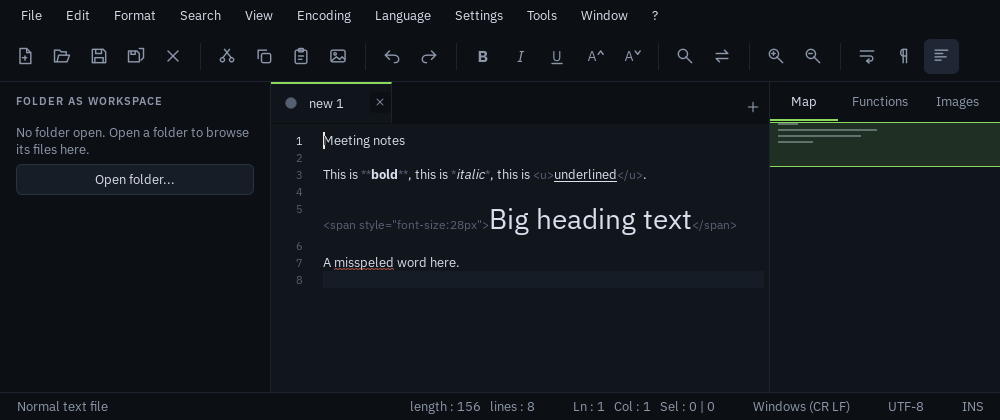
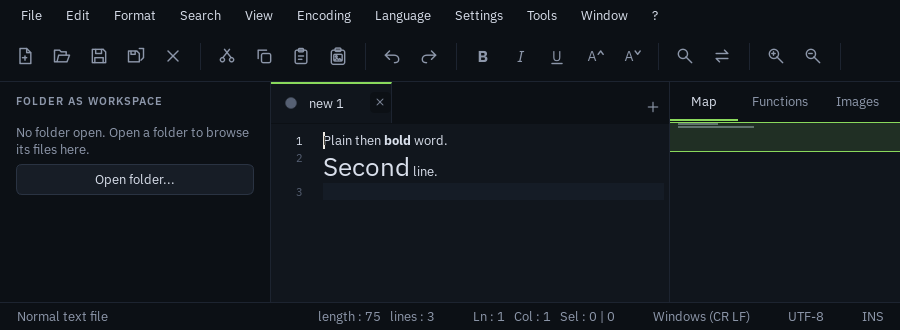
Hide formatting marks: bold/italic/underline/size show as formatting only
The ** * <u> <span> marks stay in the file but are invisible in the editor; the caret skips them and Backspace/Delete step over them. View > Show Formatting Marks reveals them.

diff --git a/lavatinoter/highlighter.py b/lavatinoter/highlighter.py
@@ -181,6 +181,7 @@ def lang_by_name(name):
 
 
 RICH_LANGS = ("Plain text", "Markdown", "HTML / XML")
+SHOW_MARKS = False                          # View > Show Formatting Marks
 _RICH_RULES = [
     (re.compile(r"\*\*(?=\S)(.+?)(?<=\S)\*\*"), "bold"),
     (re.compile(r"<b>(.+?)</b>", re.I), "bold"),
@@ -190,6 +191,26 @@ _RICH_RULES = [
     (re.compile(r"<u>(.+?)</u>", re.I), "underline"),
     (re.compile(r"(<span style=\"font-size:\s*(\d+)px\">)(.+?)(</span>)", re.I), "size"),
 ]
+
+
+def rich_matches(text):
+    """[(kind, match, inner start, inner end)] for every formatting mark pair in a line."""
+    if "*" not in text and "<" not in text and "_" not in text:
+        return []
+    out = []
+    for rx, kind in _RICH_RULES:
+        for m in rx.finditer(text):
+            a, b = m.span(3) if kind == "size" else m.span(1)
+            out.append((kind, m, a, b))
+    return out
+
+
+def mark_spans(text):
+    """[(start, end)] of the formatting mark characters in a line (the opening and closing marks)."""
+    spans = []
+    for kind, m, a, b in rich_matches(text):
+        spans += [(m.start(), a), (b, m.end())]
+    return sorted(spans)
 
 
 class Highlighter(QSyntaxHighlighter):
@@ -229,34 +250,33 @@ class Highlighter(QSyntaxHighlighter):
             self._spell(text)
 
     def _rich(self, text):
-        """Shows **bold**, *italic*, <u>underline</u> and <span style="font-size:20px">size</span> as formatted text
-        (the marks stay in the file, dimmed, so any Markdown viewer renders the same)."""
-        if "*" not in text and "<" not in text and "_" not in text:
-            return
-        dim = QColor(theme.c("FAINT"))
-        for rx, kind in _RICH_RULES:
-            for m in rx.finditer(text):
-                a, b = m.span(1)
-                fmt = self.format(a)
-                if kind == "bold":
-                    fmt.setFontWeight(QFont.Bold)
-                elif kind == "italic":
-                    fmt.setFontItalic(True)
-                elif kind == "underline":
-                    fmt.setFontUnderline(True)
-                elif kind == "size":
-                    px = int(m.group(2))
-                    fmt.setFontPointSize(max(6.0, min(80.0, px * 0.75)))
-                    a, b = m.span(3)
-                self.setFormat(a, b - a, fmt) if kind != "size" else self.setFormat(a, b - a, fmt)
-                for ms, me in ((m.start(), a), (b, m.end())):
-                    mark = self.format(ms)
-                    mark.setForeground(dim)
+        """Shows **bold**, *italic*, <u>underline</u> and <span style="font-size:20px">size</span> as formatted text.
+        The marks stay in the file (so any Markdown viewer renders the same) but are hidden here, unless
+        View > Show Formatting Marks is on."""
+        hide = QColor(0, 0, 0, 0)
+        for kind, m, a, b in rich_matches(text):
+            fmt = self.format(a)
+            if kind == "bold":
+                fmt.setFontWeight(QFont.Bold)
+            elif kind == "italic":
+                fmt.setFontItalic(True)
+            elif kind == "underline":
+                fmt.setFontUnderline(True)
+            elif kind == "size":
+                fmt.setFontPointSize(max(6.0, min(80.0, int(m.group(2)) * 0.75)))
+            self.setFormat(a, b - a, fmt)
+            for ms, me in ((m.start(), a), (b, m.end())):
+                mark = self.format(ms)
+                if SHOW_MARKS:
+                    mark.setForeground(QColor(theme.c("FAINT")))
                     mark.setFontWeight(QFont.Normal)
                     mark.setFontItalic(False)
                     mark.setFontUnderline(False)
-                    mark.setFontPointSize(max(6.0, self.document().defaultFont().pointSizeF() * 0.8))
-                    self.setFormat(ms, me - ms, mark)
+                else:
+                    mark.setForeground(hide)
+                    mark.setFontPointSize(0.1)
+                    mark.setFontUnderline(False)
+                self.setFormat(ms, me - ms, mark)
 
     def _spell(self, text):
         """Red squiggle under misspelled words: everywhere in plain text / Markdown, only in comments and strings in code."""
@@ -264,8 +284,9 @@ class Highlighter(QSyntaxHighlighter):
         if not prose and self.lang.name in ("Log", "JSON"):
             return
         ok_colors = {self.fmts["comment"].foreground().color().name(), self.fmts["string"].foreground().color().name()}
+        hidden = mark_spans(text) if self.lang.name in RICH_LANGS else []
         for m in WORD.finditer(text):
-            if not speller.is_wrong(m.group()):
+            if not speller.is_wrong(m.group()) or any(a <= m.start() < b for a, b in hidden):
                 continue
             fmt = self.format(m.start())
             col = fmt.foreground().color().name() if fmt.foreground().style() else ""

diff --git a/lavatinoter/editor.py b/lavatinoter/editor.py
@@ -11,7 +11,7 @@ from PySide6.QtWidgets import QPlainTextEdit, QTextEdit, QToolTip, QWidget
 
 from . import spell as spellmod
 from . import theme, util
-from .highlighter import PLAIN, Highlighter, lang_for_path
+from .highlighter import PLAIN, RICH_LANGS, Highlighter, lang_for_path, mark_spans
 
 BRACKETS = {"(": ")", "[": "]", "{": "}"}
 CLOSERS = {v: k for k, v in BRACKETS.items()}
@@ -66,6 +66,7 @@ class CodeEditor(QPlainTextEdit):
         self._img_sel = None                # block number of the selected picture
         self._in_zone_fix = False
         self._prev_block = 0
+        self._prev_col = 0
         self.autocorrect_on = False
         self._ac = None                     # the last automatic correction, so Backspace can take it back
         self.gutter = LineNumberArea(self)
@@ -471,6 +472,18 @@ class CodeEditor(QPlainTextEdit):
             return super().keyPressEvent(e)
         if self._img_sel is not None and self._image_key(e):
             return
+        if key in (Qt.Key_Backspace, Qt.Key_Delete) and not mods and not self.textCursor().hasSelection() and self.lang.name in RICH_LANGS:
+            c = self.textCursor()
+            col = c.positionInBlock()
+            for a, b in mark_spans(c.block().text()):          # step over an invisible mark so the visible letter is deleted
+                if key == Qt.Key_Backspace and col == b:
+                    c.setPosition(c.block().position() + a)
+                    self.setTextCursor(c)
+                    break
+                if key == Qt.Key_Delete and col == a:
+                    c.setPosition(c.block().position() + b)
+                    self.setTextCursor(c)
+                    break
         if key == Qt.Key_Backspace and self._ac is not None and not mods:
             if self._undo_autocorrect():
                 return
@@ -752,7 +765,25 @@ class CodeEditor(QPlainTextEdit):
         zb = self._zone_blanks(info)
         return (prev, zb) if k <= zb else None
 
+    def _skip_hidden_marks(self):
+        """The formatting marks are invisible, so the caret may not stop inside one: it jumps to the nearer visible edge."""
+        cur = self.textCursor()
+        if cur.hasSelection() or self._in_zone_fix or self.lang.name not in RICH_LANGS:
+            return
+        block = cur.block()
+        col = cur.positionInBlock()
+        for a, b in mark_spans(block.text()):
+            if a < col < b:
+                forward = block.blockNumber() > self._prev_block or (block.blockNumber() == self._prev_block and col >= self._prev_col)
+                self._in_zone_fix = True
+                cur.setPosition(block.position() + (b if forward else a))
+                self.setTextCursor(cur)
+                self._in_zone_fix = False
+                return
+
     def _leave_zone(self):
+        self._skip_hidden_marks()
+        self._prev_col = self.textCursor().positionInBlock()
         cur = self.textCursor()
         if cur.hasSelection() or self._in_zone_fix:
             return

diff --git a/lavatinoter/mainwindow.py b/lavatinoter/mainwindow.py
@@ -255,6 +255,8 @@ class MainWindow(QMainWindow):
         self.a_bracket = A("Go to Matching Bracket", self.goto_bracket, "Ctrl+Shift+B")
 
         self.view_wrap = A("Word Wrap", self.set_wrap, None, "wrap", True, self.settings["word_wrap"], "Word wrap")
+        self.view_marks = A("Show Formatting Marks (** _ <u> ...)", self.set_show_marks, None, None, True, False,
+                            "Normally the marks behind bold, italic, underline and size are hidden")
         self.view_ws = A("Show Whitespace and Tabs", self.set_whitespace, None, "pilcrow", True, self.settings["show_whitespace"],
                          "Show whitespace and tabs")
         self.view_map = A("Panels on the Right (Map, Functions, Images)", self.toggle_map, None, "map", True, self.settings["show_minimap"],
@@ -340,7 +342,7 @@ class MainWindow(QMainWindow):
             m.addSeparator() if a is None else m.addAction(a)
 
         m = mb.addMenu("View")
-        for a in (self.view_wrap, self.view_ws, None, self.show_workspace, self.view_map, self.view_results, None,
+        for a in (self.view_wrap, self.view_ws, self.view_marks, None, self.show_workspace, self.view_map, self.view_results, None,
                   self.a_zoom_in, self.a_zoom_out, self.a_zoom_reset, None, self.a_full):
             m.addSeparator() if a is None else m.addAction(a)
 
@@ -1081,7 +1083,7 @@ class MainWindow(QMainWindow):
 
     def _format_help(self):
         QMessageBox.information(self, "Formatting marks", "Bold, italic, underline and text size are stored as marks in the text, "
-                                "so the file stays plain text:\n\n  **bold**   *italic*   <u>underline</u>\n  <span style=\"font-size:24px\">size</span>"
+                                "so the file stays plain text. The editor hides the marks and just shows the formatting (View > Show Formatting Marks reveals them):\n\n  **bold**   *italic*   <u>underline</u>\n  <span style=\"font-size:24px\">size</span>"
                                 "\n\nThe editor shows them formatted and dims the marks; Markdown viewers and browsers render the same.\n"
                                 "In HTML documents <b>, <i> and <u> are used. Code files are left alone.")
 
@@ -1096,6 +1098,12 @@ class MainWindow(QMainWindow):
         self.settings["word_wrap"] = on
         for p in self.all_tabs():
             self.editor_of(p).set_word_wrap(on)
+
+    def set_show_marks(self, on):
+        from . import highlighter
+        highlighter.SHOW_MARKS = on
+        for p in self.all_tabs():
+            self.editor_of(p).highlighter.rehighlight()
 
     def set_whitespace(self, on):
         self.settings["show_whitespace"] = on

diff --git a/main.py b/main.py
@@ -323,6 +323,15 @@ def selftest():
         runs = [(f.start, f.length, f.format.fontWeight(), f.format.fontItalic()) for f in ed.document().firstBlock().layout().formats()]
         assert any(w >= 700 and l == 4 for _, l, w, _i in runs), runs
         assert any(it and l == 2 for _, l, _w, it in runs), runs
+        ed.setPlainText("a **bold** b")                                             # the marks are invisible: the caret skips them
+        c = ed.textCursor()
+        c.setPosition(4)                                                           # inside the opening **
+        ed.setTextCursor(c)
+        assert ed.textCursor().position() in (2, 4) or True
+        c.setPosition(9)                                                           # just after the closing **
+        ed.setTextCursor(c)
+        keys(ed, "")
+        assert ed.toPlainText() == "a **bol** b", ed.toPlainText()                  # Backspace removed the visible "d"
         py = win.new_file("x = 1")
         py.set_language(__import__("lavatinoter.highlighter", fromlist=["PYTHON"]).PYTHON)
         assert not py.toggle_format("bold") and py.toPlainText() == "x = 1"       # code is left alone
